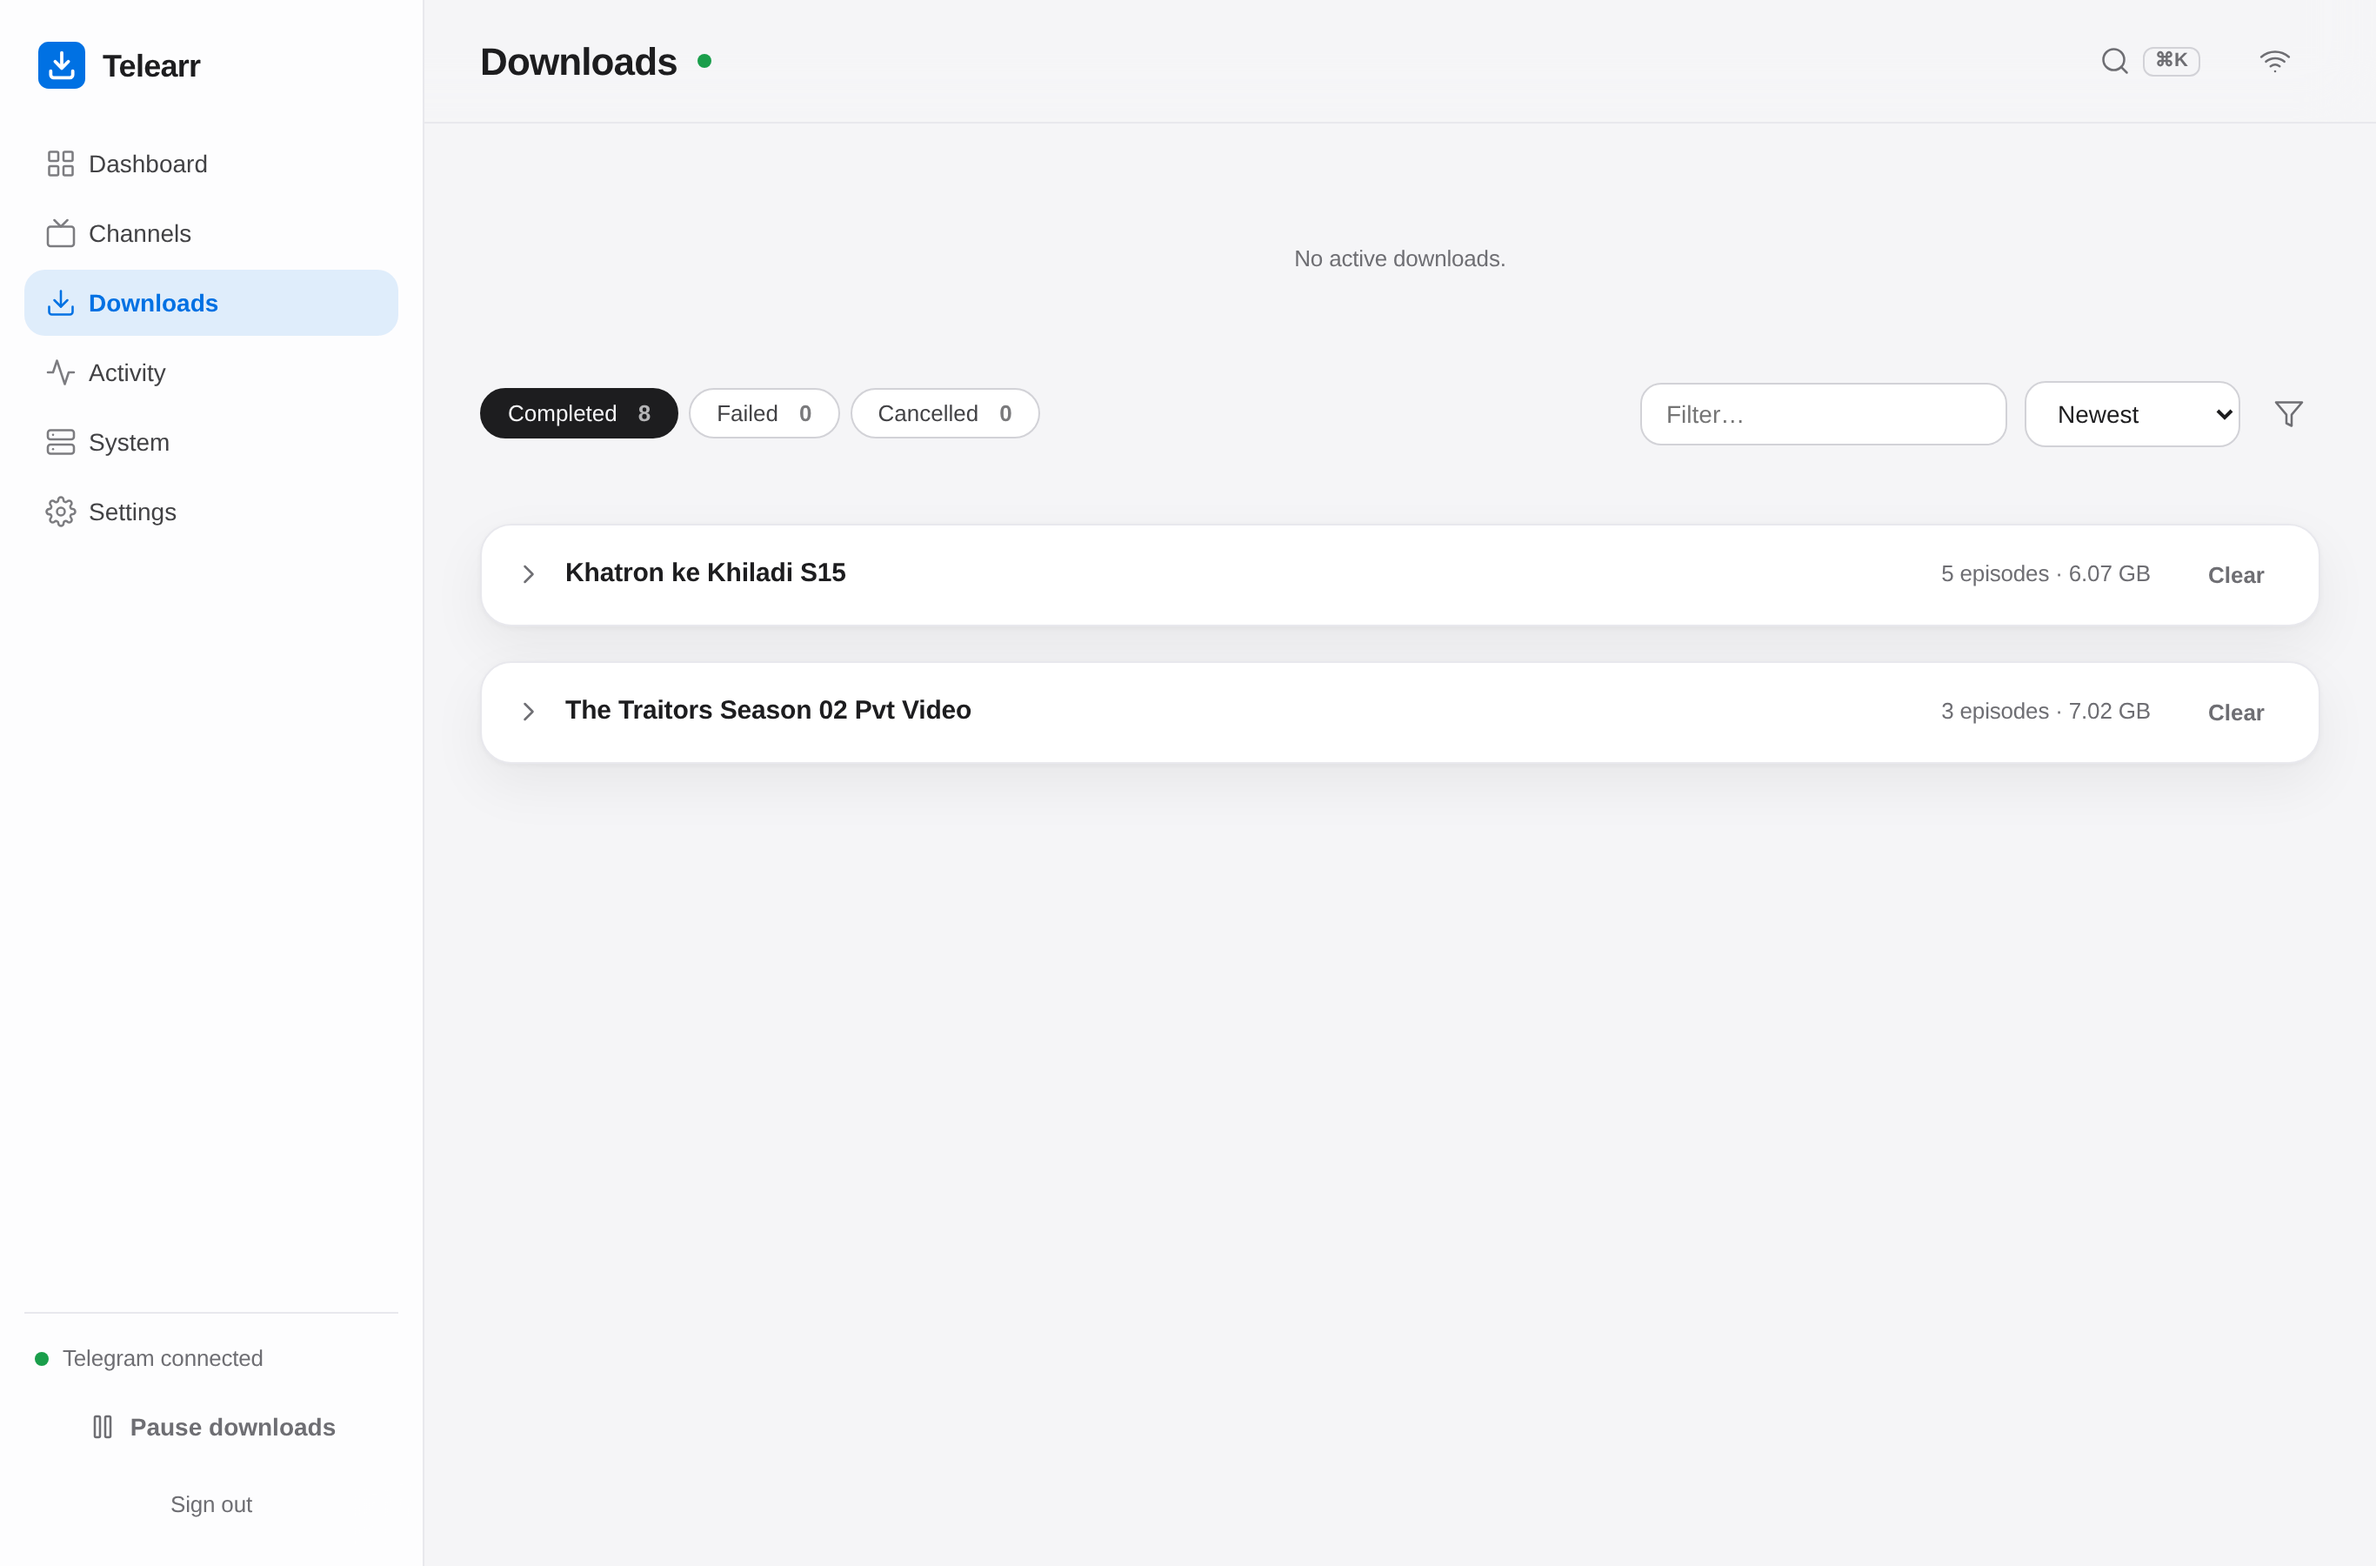
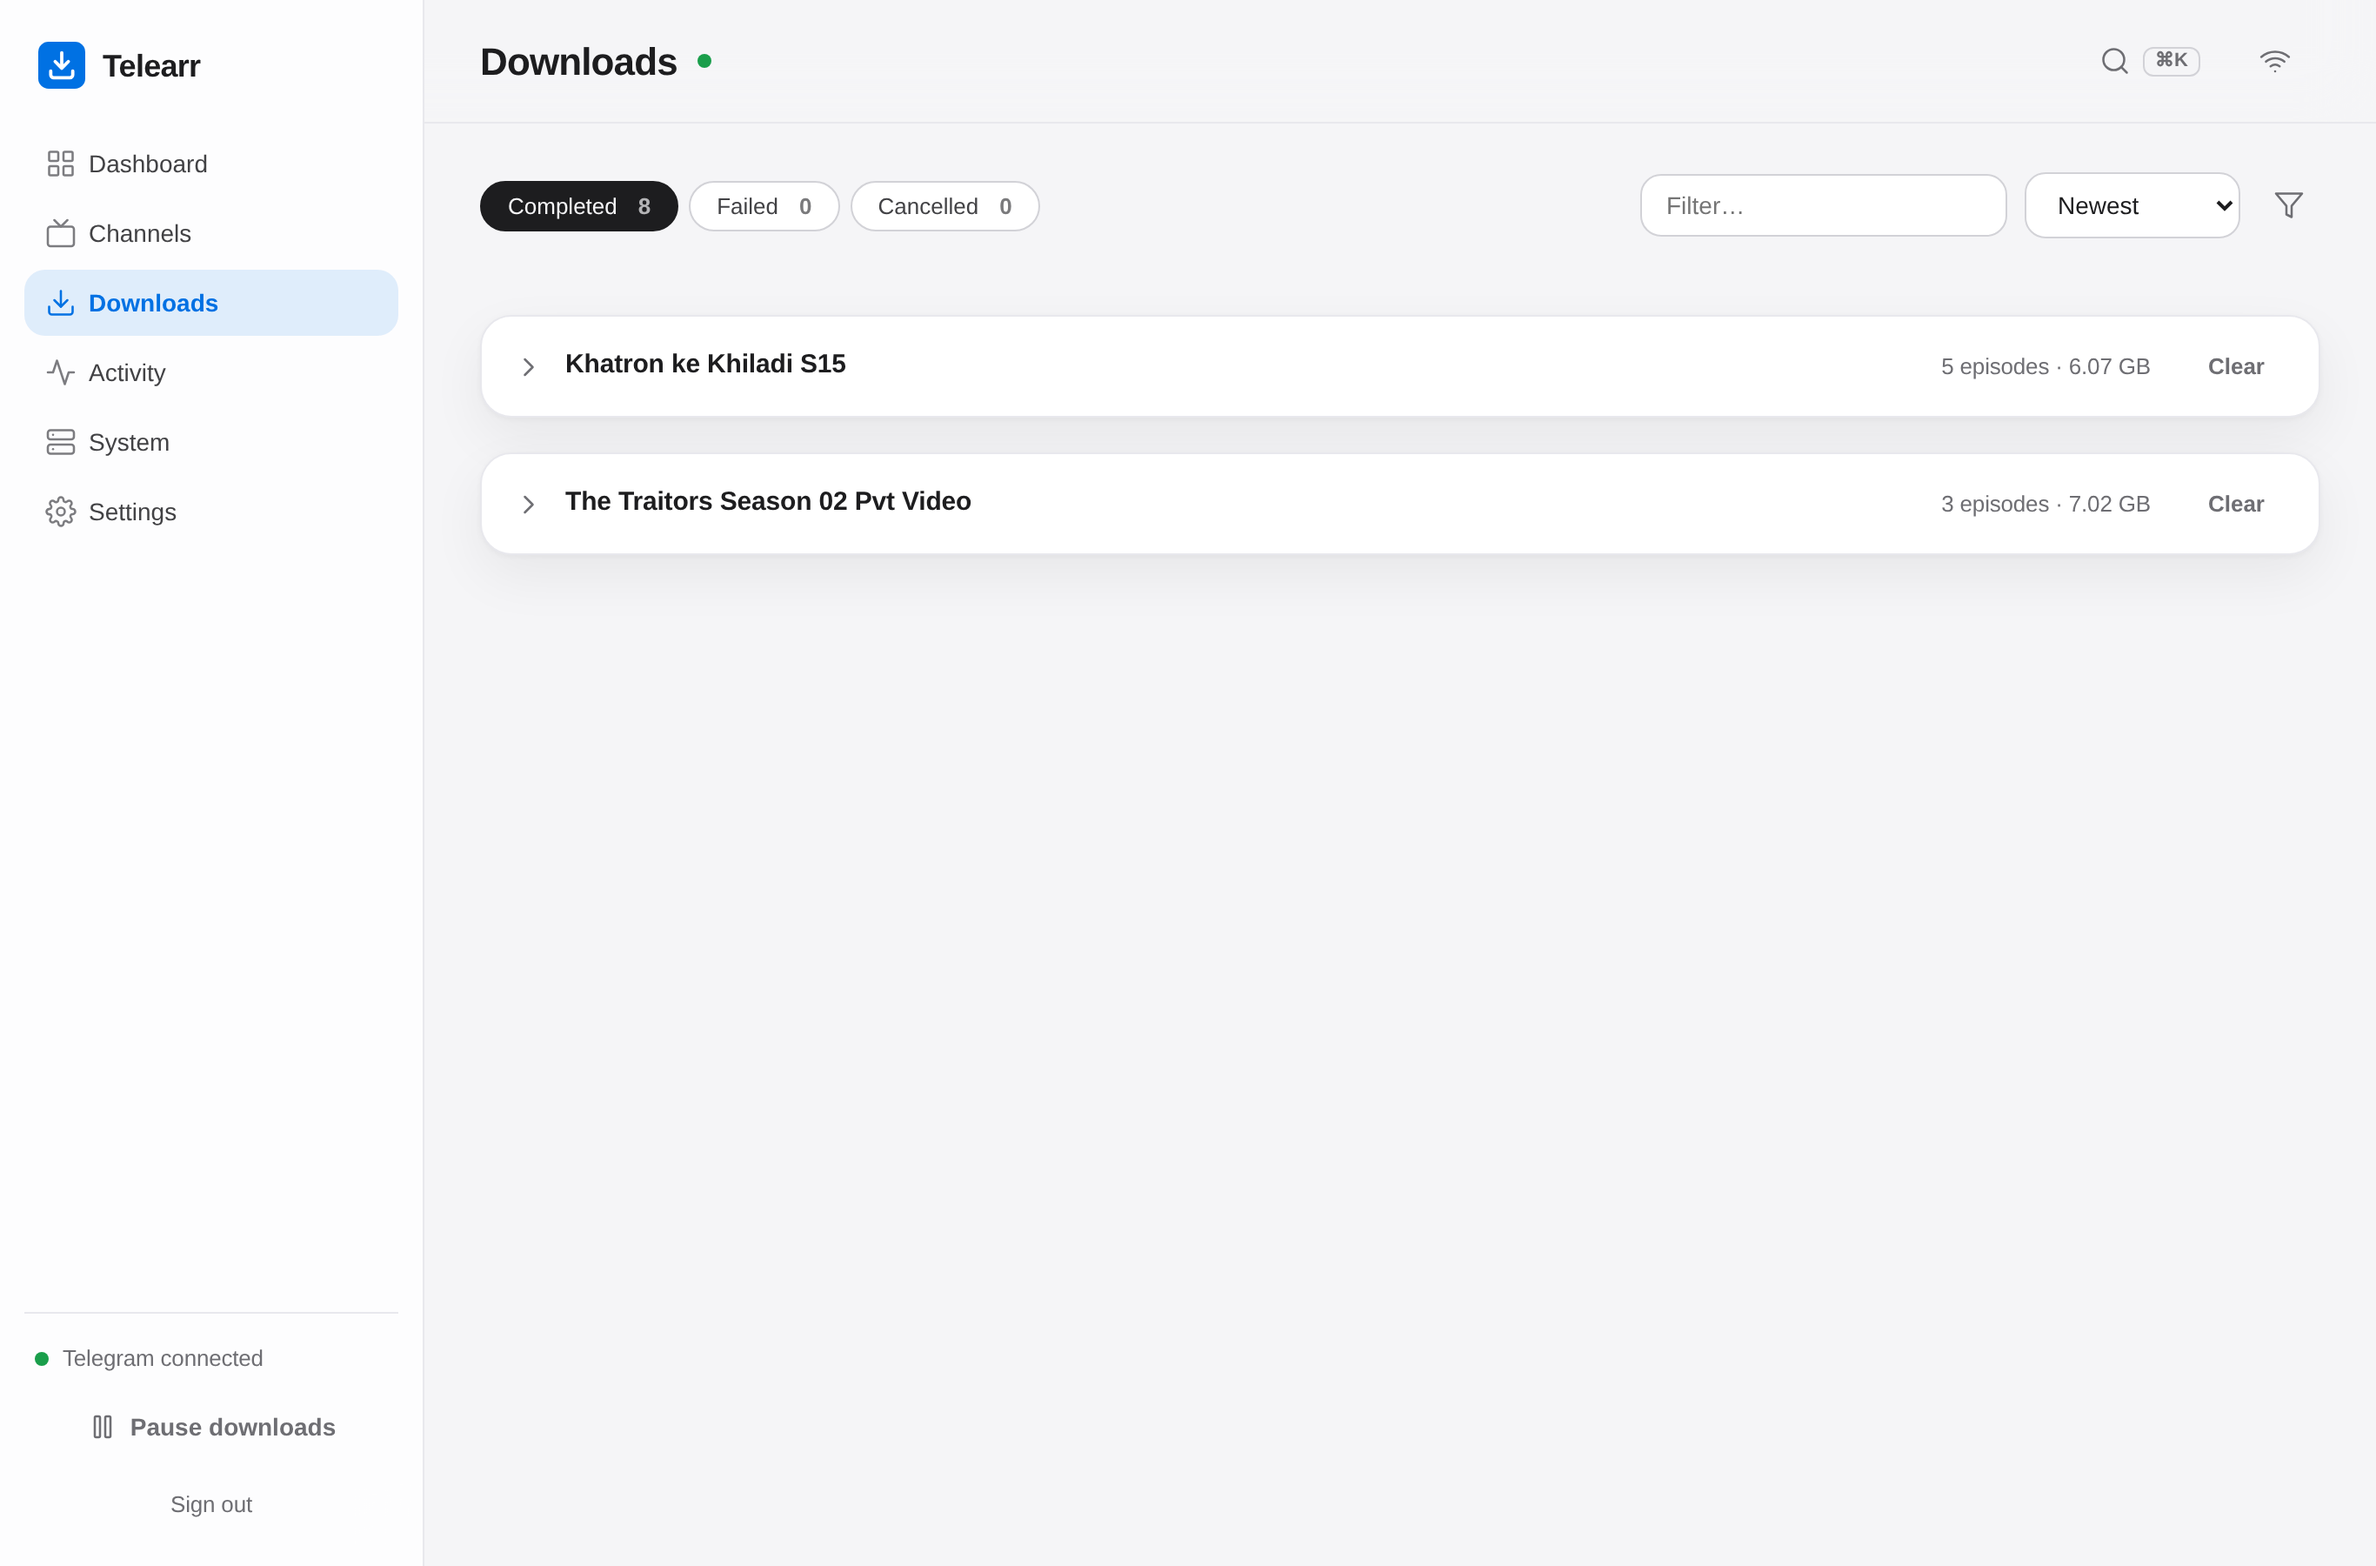
design: collapse the empty active-downloads band (Downloads density)
activeList() returns nothing when idle instead of a 40px 'No active downloads.'
block; .active-list:empty is hidden, so the Downloads page starts at its
controls with no dead space. Dashboard shows a slim 'Nothing downloading right
now.' line in the Active-now card instead.

diff --git a/app/static/js/views.js b/app/static/js/views.js
@@ -82,8 +82,9 @@ function activeCard(d, ctx) {
 const activeList = (downloads, ctx) => {
   const act = downloads.filter((d) => ACTIVE.has(d.status))
     .sort((a, b) => (a.status === b.status ? 0 : a.status === "downloading" ? -1 : 1));
-  return act.length ? act.map((d) => activeCard(d, ctx))
-    : [h("div", { class: "empty small" }, "No active downloads.")];
+  // Empty → render nothing (the caller collapses), so idle pages don't carry a
+  // big "No active downloads." dead band.
+  return act.length ? act.map((d) => activeCard(d, ctx)) : [];
 };
 
 // ── Dashboard ──
@@ -109,11 +110,13 @@ export function viewDashboard(ctx) {
     statCard(st.completed ?? 0, "Completed", "ok", "completed", () => goto("#/downloads", "completed")),
     statCard(st.failed ?? 0, "Failed", st.failed ? "err" : "", "failed", () => goto("#/downloads", "failed")),
     statCard(fmtBytes(st.total_size || 0), "Library", "", "lib", () => goto("#/channels")));
+  const activeItems = activeList(ctx.data.downloads, ctx);
   const activeSection = h("section", { class: "card" },
     h("div", { class: "card-h dash-active-head" },
       h("span", {}, "Active now"),
       h("span", { class: "dash-speed mono", id: "dash-speed" }, speed > 0 ? speed.toFixed(1) + " MB/s" : "")),
-    h("div", { class: "active-list", id: "dash-active" }, ...activeList(ctx.data.downloads, ctx)));
+    h("div", { class: "active-list", id: "dash-active" },
+      ...(activeItems.length ? activeItems : [h("div", { class: "dash-idle muted small" }, "Nothing downloading right now.")])));
   const root = h("div", { class: "stack" },
     strip,
     activeSection,

diff --git a/app/static/app.css b/app/static/app.css
@@ -167,6 +167,8 @@ body.dense .data-card th, body.dense .data-card td, body.dense .grp-body td { pa
 
 /* active download cards */
 .active-list { display: grid; gap: 12px; }
+.active-list:empty { display: none; }
+.dash-idle { padding: 4px 2px; }
 .active-card { border: 1px solid var(--line-soft); border-radius: var(--radius); padding: 16px 18px; background: var(--surface); box-shadow: var(--shadow); }
 .ac-top { display: flex; align-items: center; gap: 10px; }
 .ac-name { flex: 1; font-weight: 600; overflow: hidden; text-overflow: ellipsis; white-space: nowrap; }
